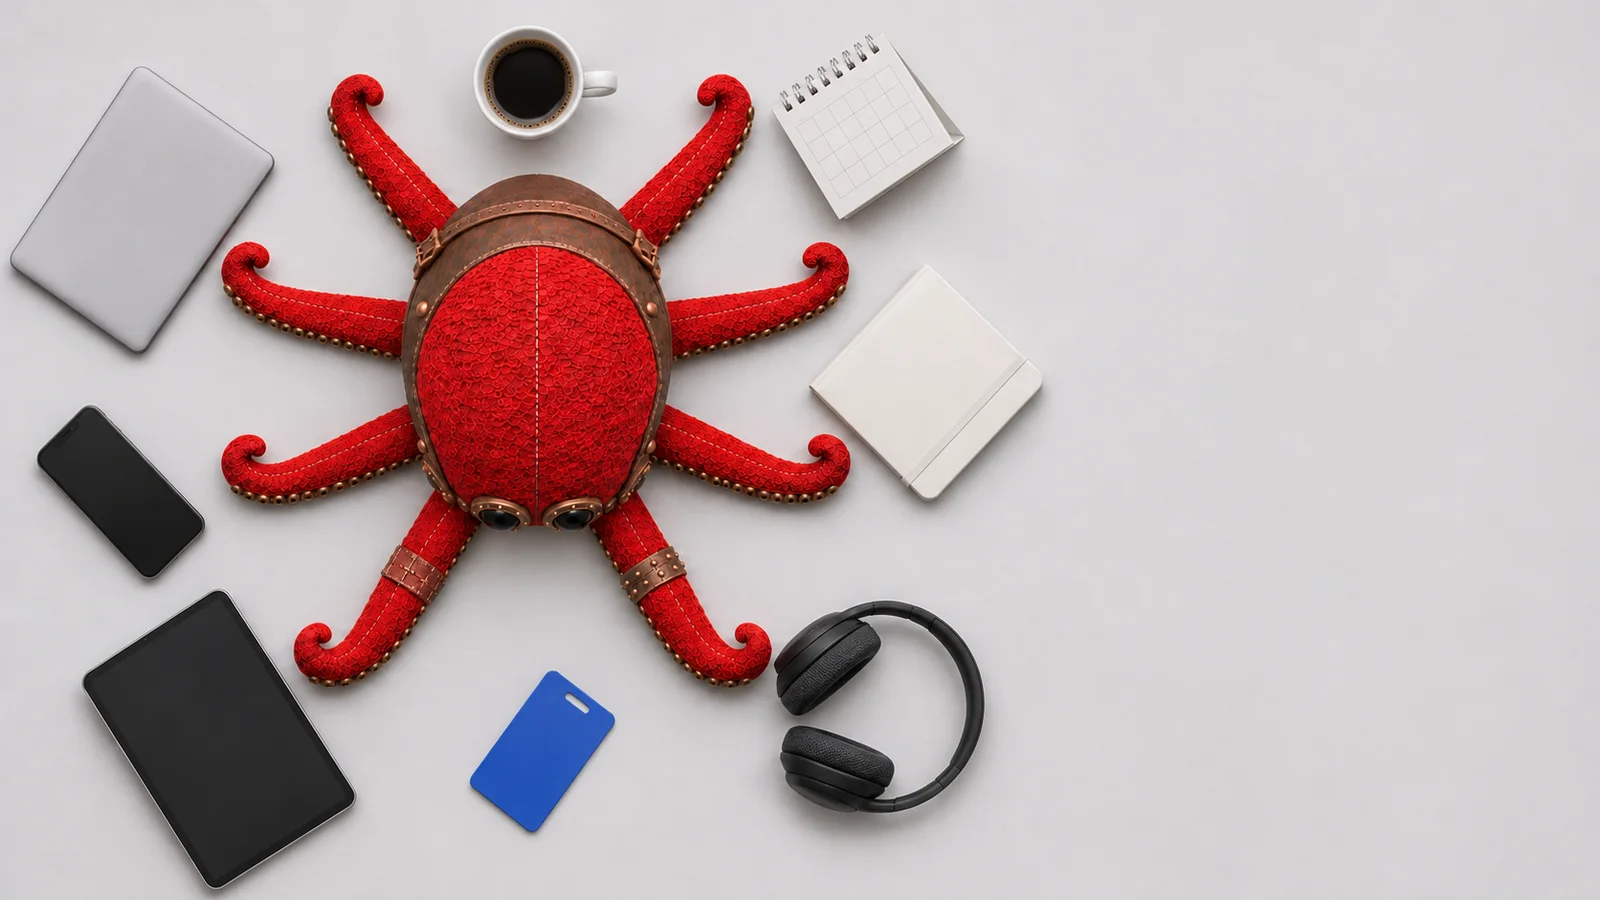
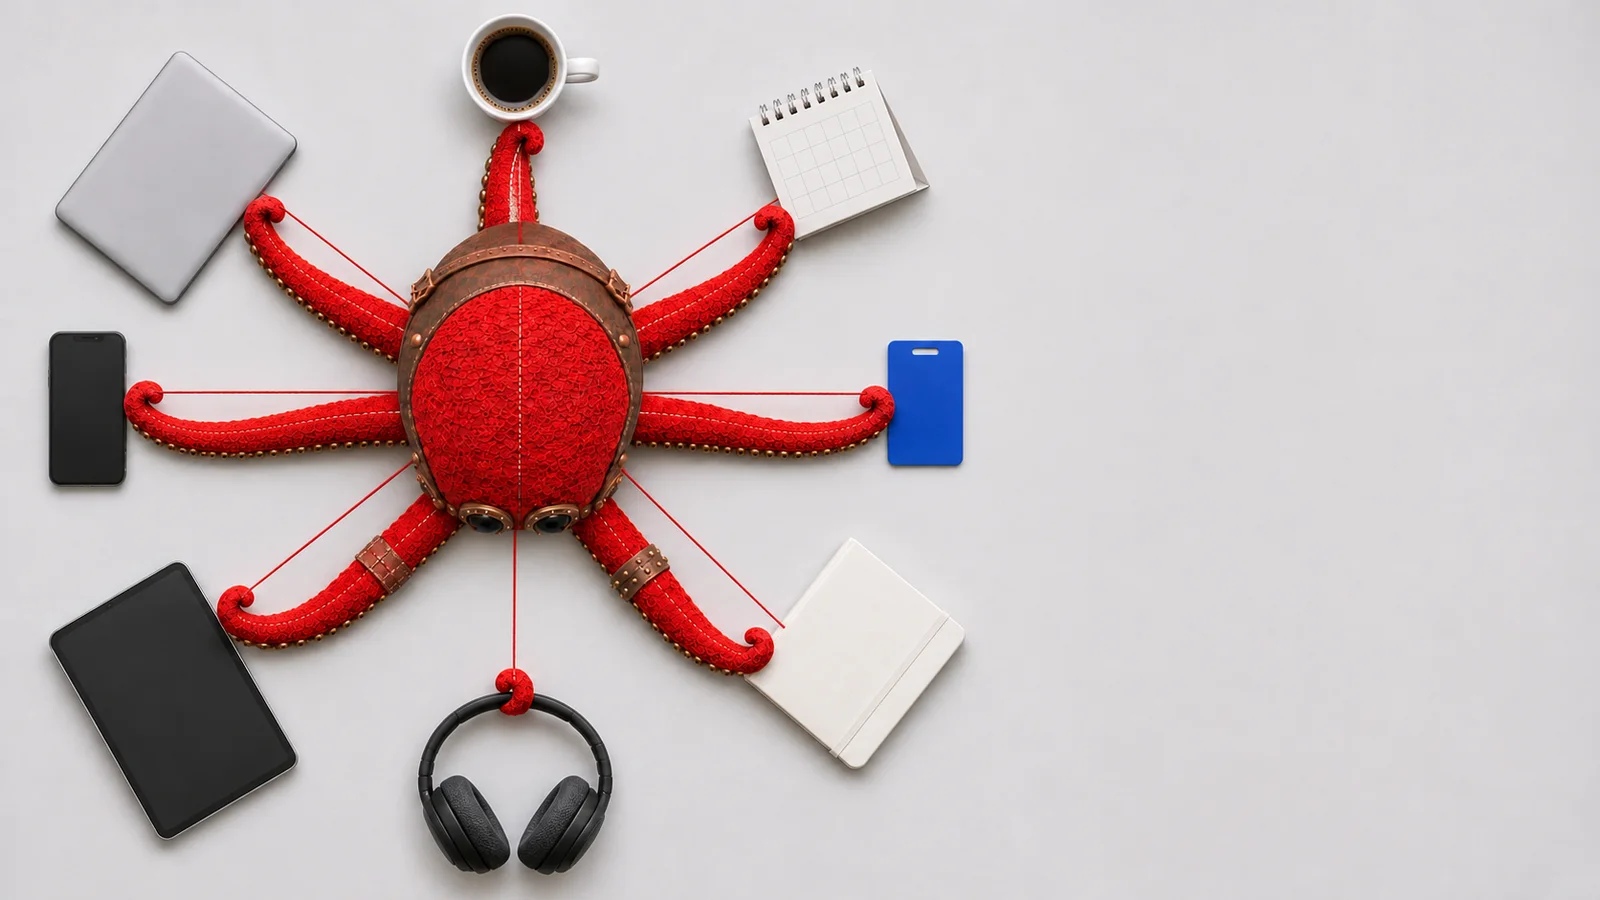
Brain sahnesi: halka düzeni karesi (v3)
Claude-Session: https://claude.ai/code/session_01UFKx6JiipSBJD7cVk36oyW

Changed region(s): [[0.0, 0.0, 0.6562, 1.0]]

diff --git a/public/yeni/index.html b/public/yeni/index.html
@@ -180,7 +180,7 @@ html:not(.js) .b3{margin-top:4vh}
     
   </div>
 </section>
-<section class="act R tight" id="brain" aria-label="Atron Brain" data-n="2" data-dir="/sahne/s3/brain" data-fx="0.3" data-bg="#d7d5d6" data-scrim="0.9" data-ax="0.33" data-ay="0.09" data-ar="0.04" style="--bg:#d7d5d6;--ink:#0d0e11;--dim:#5b5e66;--line:rgba(13,14,17,.22);--scrim:0.9;--red:#ca0013">
+<section class="act R tight" id="brain" aria-label="Atron Brain" data-n="2" data-dir="/sahne/s3/brain" data-fx="0.3" data-bg="#d7d5d6" data-scrim="0.9" data-ax="0.322" data-ay="0.075" data-ar="0.03" style="--bg:#d7d5d6;--ink:#0d0e11;--dim:#5b5e66;--line:rgba(13,14,17,.22);--scrim:0.9;--red:#ca0013">
   <div class="stage">
     <img class="fallback" src="/sahne/s3/brain/02.webp" alt="Tepeden görünüm: ATRON kuklası ortada, her kolu masadaki ayrı bir nesneye uzanmış, hepsi kırmızı iple ona bağlı" loading="lazy" style="object-position:30% 50%">
     <canvas aria-hidden="true"></canvas>

diff --git a/build_sahne.py b/build_sahne.py
@@ -29,7 +29,7 @@ ACTS = [
          sub="Cevap vermemiş eski başvuruları kendi dillerinde arar, ilgileneni ekibinize sıcak devreder. Aynı anda birden çok hat.",
          cta=("NASIL ÇALIŞIYOR", "/ajanlar/outbound-geri-kazanim/"),
          alt="Dev bir telefon santralinin önünde küçük ATRON kuklası altı koluyla altı kabloyu takmış, lambalar yanıyor"),
-    dict(id="brain", n=2, w="tight", iris=(.33, .09, .04), more=('Dört katman, tek hafıza', [('EKİBİNİZ', 'Satış, operasyon, yönetim. Soru sorar, karar verir.'), ('BRAIN', 'Kim ne konuştu, ne karar verildi, hangi iş nerede.'), ('AJANLAR', "Telefonu açar, WhatsApp'ı okur, listeyi arar. Yaptığını beyne yazar."), ('SİSTEMLER', 'CRM, ERP, Drive, santral. Veri yerinde kalır; beyin nerede olduğunu bilir.')]), dir="/sahne/s3/brain", tag="04 / ATRON BRAIN", label="ATRON BRAIN", side="R", fx=0.3, bg="#d7d5d6", scrim=0.9, **DARK,
+    dict(id="brain", n=2, w="tight", iris=(.322, .075, .03), more=('Dört katman, tek hafıza', [('EKİBİNİZ', 'Satış, operasyon, yönetim. Soru sorar, karar verir.'), ('BRAIN', 'Kim ne konuştu, ne karar verildi, hangi iş nerede.'), ('AJANLAR', "Telefonu açar, WhatsApp'ı okur, listeyi arar. Yaptığını beyne yazar."), ('SİSTEMLER', 'CRM, ERP, Drive, santral. Veri yerinde kalır; beyin nerede olduğunu bilir.')]), dir="/sahne/s3/brain", tag="04 / ATRON BRAIN", label="ATRON BRAIN", side="R", fx=0.3, bg="#d7d5d6", scrim=0.9, **DARK,
          mid=("TEK YER", "BİLGİ ON AYRI YERDE DURUYORDU"),
          say="Hepsi tek hafızada.",
          sub="Kim ne konuştu, ne karar verildi, hangi iş nerede. İnsan da ajan da aynı yerden okur. Biz kendi şirketimizi böyle yönetiyoruz; aynısının sizde kurulduğunu düşünün.",
